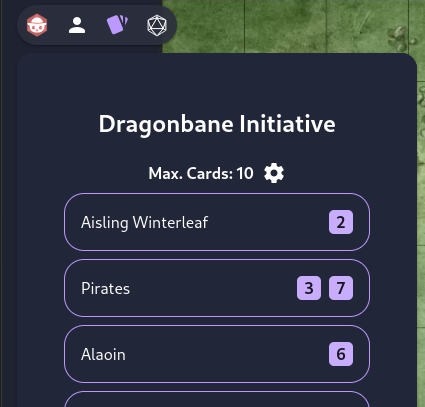
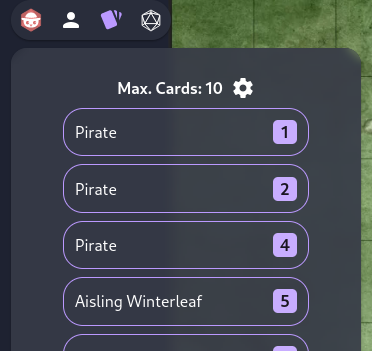
Adjust theming and update hero image

diff --git a/src/style.css b/src/style.css
@@ -61,7 +61,7 @@ dialog {
   border: 1px solid rgba(187, 153, 255, 0.3);
   border-radius: 10px;
   background-color: inherit;
-  backdrop-filter: blur(15px);
+  backdrop-filter: blur(30px);
   color: var(--text);
   max-width: 50%;
   cursor: default;
@@ -145,7 +145,7 @@ input[type='checkbox']:checked::before {
   flex-direction: row;
   justify-content: space-between;
   width: 100%;
-  padding: 1em;
+  padding: 0.7em;
   border-radius: 20px;
   background-image: inherit;
   border: 1px solid var(--primary);

diff --git a/src/App.vue b/src/App.vue
@@ -49,9 +49,9 @@ OBR.onReady(() => {
 </script>
 
 <template>
-  <div class="row items-center justify-between">
+  <!--div class="row items-center justify-between">
     <h2>Dragonbane Initiative</h2>
-  </div>
+  </div-->
 
   <div class="row items-center mb-sm">
     <strong class="mr-sm">Max. Cards: {{ maxCards }}</strong>
